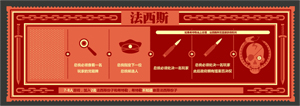
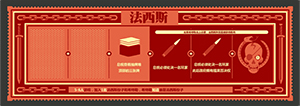
0.9.2
修改游戏板图片

diff --git a/src/app/room/room.component.ts b/src/app/room/room.component.ts
@@ -65,13 +65,12 @@ export class RoomComponent {
 
   getbroad() {
     if (this.iszoom) {
-      let list = ['./pic/t6.jpg', './pic/法西斯进度8.jpg', './pic/法西斯进度10.jpg'];
+      let list = ['./pic/t6.jpg', './pic/t8.jpg', './pic/t10.jpg'];
       return list[this.theGameService.gametype - 1];
     } else {
-      let list = ['./pic/t6s.jpg', './pic/法西斯进度8.jpg', './pic/法西斯进度10.jpg'];
+      let list = ['./pic/t6s.jpg', './pic/t8s.jpg', './pic/t10s.jpg'];
       return list[this.theGameService.gametype - 1];
     }
-
   }
 
   getback() {
